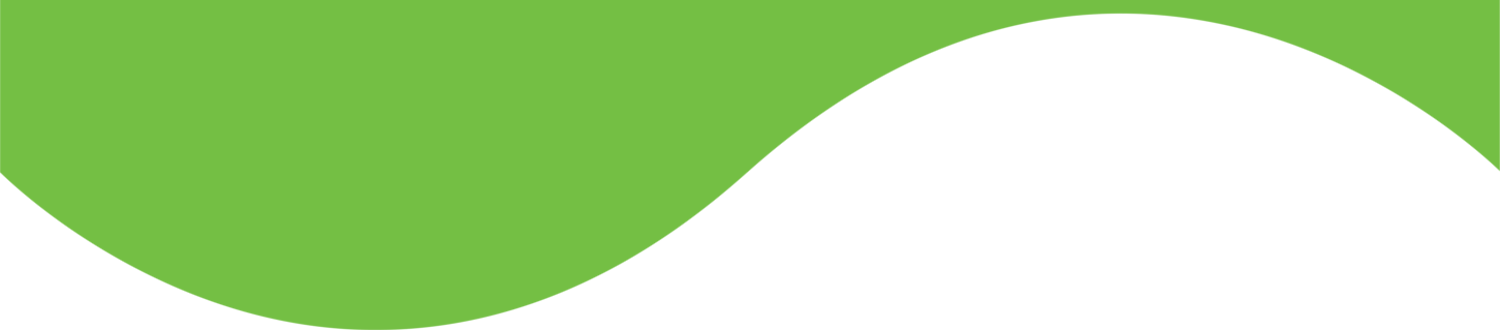
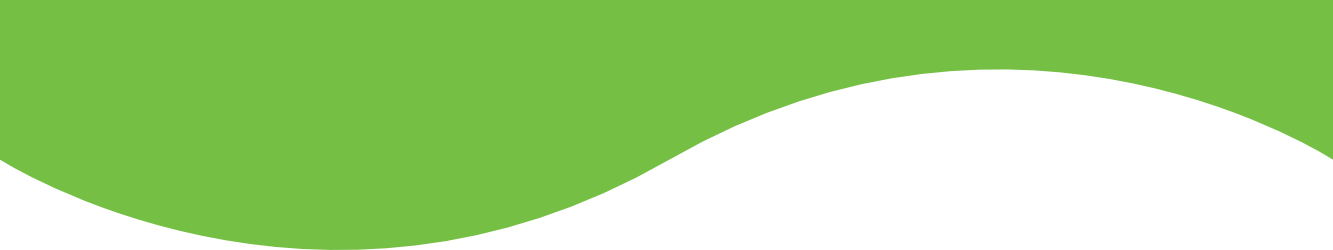
header part adjustment

diff --git a/wccpilgrimageblog/theme/static/stylesheets/app.css b/wccpilgrimageblog/theme/static/stylesheets/app.css
@@ -7382,11 +7382,11 @@ th.hide-for-touch {
   background-position: -250px 0px;
   background-color: #fff;
   background-repeat: repeat-x;
-  height: 331px; }
+  /*height: 250px;*/ }
   #main-header #sitename a img {
-    margin-top: 40px; }
+    margin-top: 10px; }
   #main-header #main-search {
-    margin-top: 100px; }
+    margin-top: 50px; }
 
 /*navigation*/
 #main-menu ul {
@@ -7519,7 +7519,10 @@ footer {
 
 @media only screen and (min-width:64.063em) {
   #main-header {
+    height: 250px;
     background-position: top center; }
+    #main-header #main-search {
+      margin-top: 150px; }
 
   footer #wcc-footer p {
     text-align: left; }
